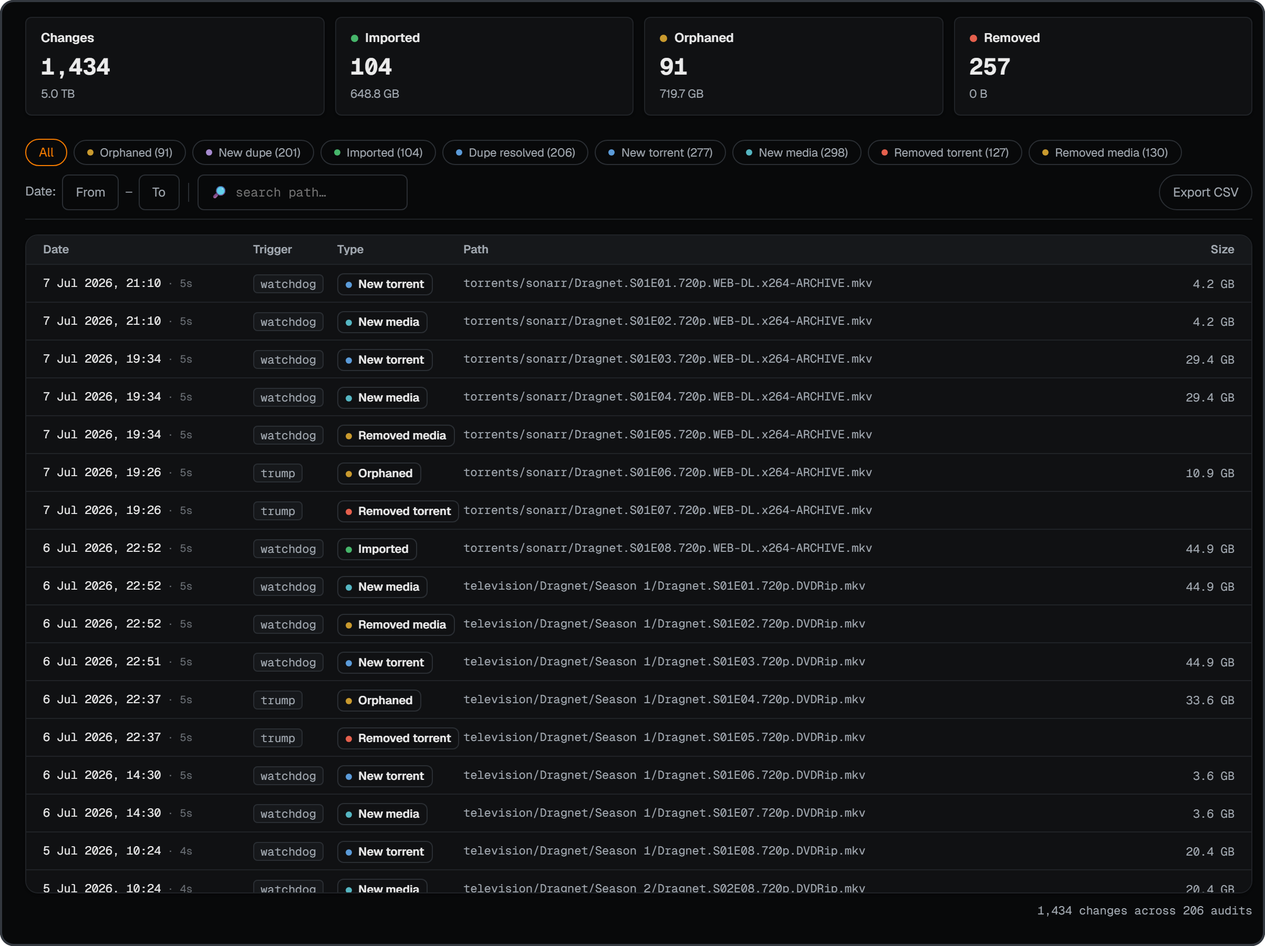
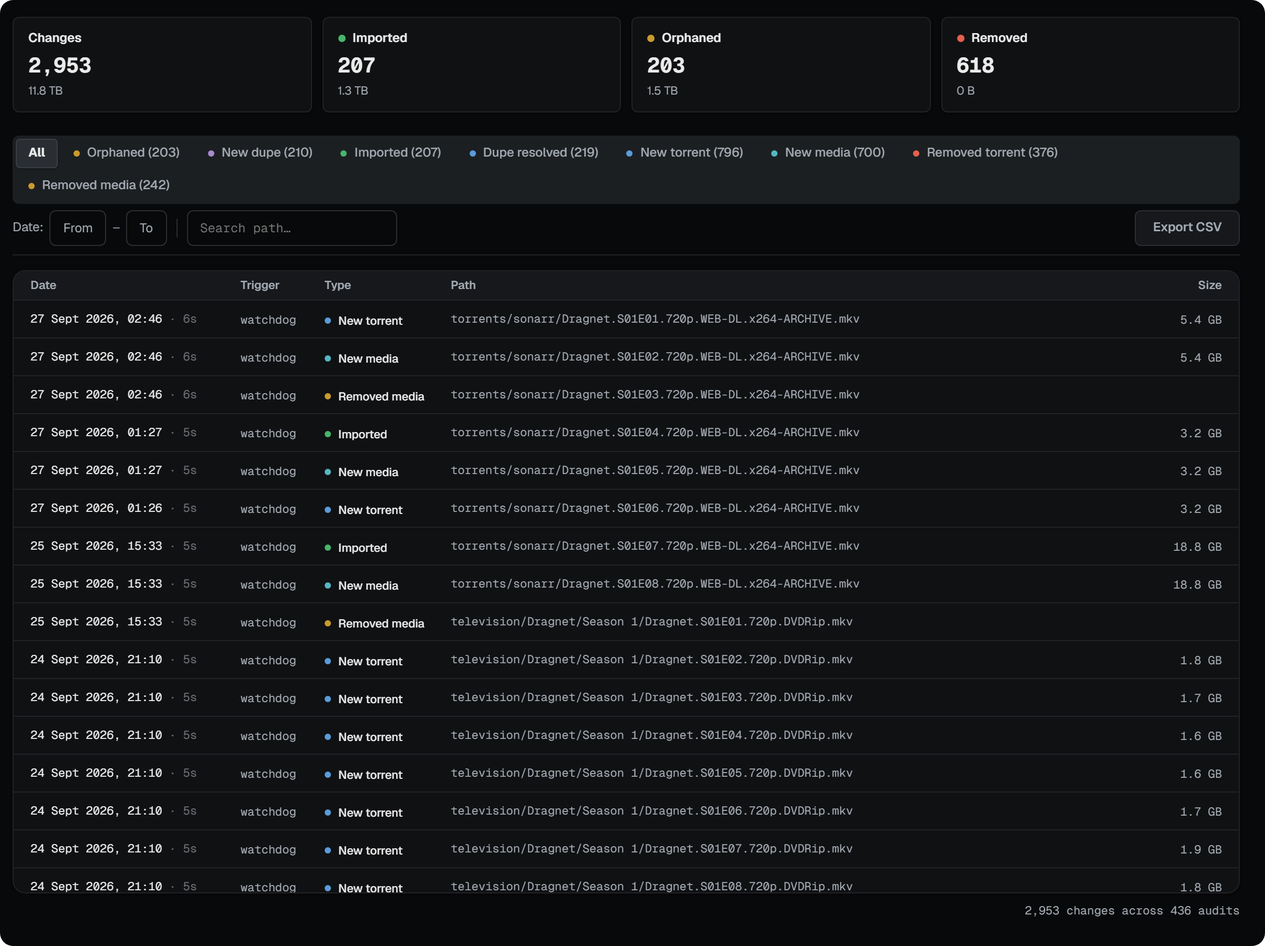
Final documentation polish for 1.8.0

diff --git a/app.py b/app.py
@@ -58,7 +58,7 @@ from debug import (
 logging.basicConfig(level=logging.INFO, format='%(asctime)s [%(levelname)s] %(message)s')
 log = logging.getLogger(__name__)
 
-APP_VERSION = "1.7.3"
+APP_VERSION = "1.8.0"
 
 # Keep the last ~400 log records in memory for /api/debug/report
 install_ring_buffer()

diff --git a/CHANGELOG.md b/CHANGELOG.md
@@ -1,6 +1,6 @@
 # Changelog
 
-## Unreleased
+## v1.8.0 — 2026-09-27
 
 **The largest release auditorr has had, and almost all of it is one idea.**
 Every workflow that can delete, hardlink or replace a file was reviewed end to
@@ -65,7 +65,7 @@ happens to your files rather than by which part of auditorr was at fault.
 
 #### Files hidden from auditorr's own view
 
-- **One click in Cleanup could hide your entire media library from auditorr** — Cleanup groups orphaned files by release folder, and a single-file torrent saved straight into a category directory (`movies/Film.2020.1080p.mkv` — what qBittorrent does by default for single-file torrents) has no release folder. Every such file in the category collapsed into one group called `movies`, with a header checkbox that selected all of them, and *Exclude* then wrote the rule `movies/`. A trailing slash means "this subtree", and the match runs against both of auditorr's walks — so that rule excluded the **media library** as well as the torrent folder. Everything under it stopped being scored, the health score jumped, Backfill emptied, and File Explorer hid it, while the toast read *Added 1 exclusion rule*. Groups that aren't a release folder are now labelled **loose files** and only ever produce one rule per file. (Recoverable if it happened to you: the rule is visible and editable in Config → Excluded Files & Folders.)
+- **One click in Cleanup could hide your entire media library from auditorr** — Cleanup groups orphaned files by release folder, and a single-file torrent saved straight into a category directory (`movies/Film.2020.1080p.mkv` — what qBittorrent does by default for single-file torrents) has no release folder. Every such file in the category collapsed into one group called `movies`, with a header checkbox that selected all of them, and *Exclude* then wrote the rule `movies/`. A trailing slash means "this subtree", and the match runs against both of auditorr's walks — so that rule excluded the **media library** as well as the torrent folder. Everything under it stopped being scored, the health score jumped, Backfill emptied, and File Explorer hid it, while the toast read *Added 1 exclusion rule*. A group that isn't a release folder now says so (**category folder**) and only ever produces one rule per file. (Recoverable if it happened to you: the rule is visible and editable in Config → Excluded Files & Folders.)
 
 - **Excluding a Cleanup folder could hide a torrent that was still seeding** — Cleanup offered to exclude a whole release folder whenever the folder was deep enough, and never checked what else lived in it. One stray file inside a live torrent's folder — a sample a repack left behind, an old `.nfo` — made a one-file group whose **Exclude** wrote a rule for the whole folder, taking the seeding torrent's files out of scoring, the hardlink figure and Backfill. auditorr now offers a folder rule only where every file under the folder is orphaned — including a live cross-seed's second hardlink, which sits on no file record at all — and the folder isn't a category directory shared with your media library. Where it isn't safe, the group says why and excluding writes one rule per file.
 - **A Sonarr/Radarr outage could be forgotten between two requests** — Triage's *Could Not Check* bucket exists so that "no arr answered" can never read as *Not in Library*, whose files are the only copy. The failure and the library it described were stored separately, and with several requests in flight a successful refresh landing between the two left one request holding an empty library and no failure — and *Not in Library* back. The two now travel together. Trumped reads them the same way.
@@ -90,7 +90,7 @@ happens to your files rather than by which part of auditorr was at fault.
 - **Dedupe reclaims cross-seeded copies instead of leaving them alone** — the script replaces every path of a file or none of them, and it counted a file's hardlinks before touching it precisely so it could refuse the ones it couldn't replace whole. But auditorr only recorded *one* path per file in each folder tree, so a copy cross-seeded into two tracker directories looked like a file with a hardlink auditorr had never seen, and every group where more than one copy was cross-seeded was left alone: correct, and nothing freed. Each scan now records every path a file has in your torrent and media folders, so those groups link and the space is actually reclaimed. A copy that really does have a link auditorr can't see — a snapshot, a backup tree, or a path hidden by an exclusion rule — is still left alone, exactly as before. **Found and fixed independently by [Joloxx9](https://github.com/Joloxx9) ([#24](https://github.com/thrill-burn/auditorr/pull/24)), against the previous release, where the same gap split the file and claimed the bytes anyway.**
 - **Text on the workflow pages now follows one type scale** — Backfill, Cleanup, Triage, Dedupe and Trumped (and the script and Import Jobs panels that open over them) sized their text with hardcoded numbers, most of which weren't on the scale the rest of the app uses; half of them sat exactly between two of its sizes. Every piece of text is now sized by what it *is*, so the same kind of text is the same size on every page: section headers agree with each other, the paragraph under a page title matches the prose beneath it, and readouts like sizes, counts and ages are one size rather than four. The most visible change is **status tags and badges — the quality, HDR, match, tracker and verdict chips — which were 9, 10, 11 and 12px and are now all 11px**, so the smallest text on the busiest pages is easier to read. A few release names in Trumped's lists now wrap onto one more line as a result; they have always wrapped rather than truncate, because the release name is the thing you're checking.
 - **Warnings, alerts and errors outside the workflows render as boxes again** — the same dropped-colour bug was on the rest of the app: the error banner across the top of every page, the dashboard's threshold alerts and their *View* buttons, Audit History's load error, Config's "every weight is zero" warning and the Sidebar's scan-error box were all drawn as loose coloured text with no box around them. Selected options and search fields that hold a value get their faint highlight back, in Config, the file browsers, Audit History, Trackers and the setup wizard, and the score chart finally draws its line under the point you're hovering. Row tags (*orphaned*, *seeding*), the *Open in Sonarr/Radarr* actions, the sidebar's counts and Config's run badges stay as coloured text rather than becoming filled pills: that is how they have always looked, and a pill on every row of a long list is a lot of colour. A test now fails the build if the broken colour spelling comes back anywhere in the frontend.
-- **The workflow pages share one set of buttons and one heading style** — every workflow had grown its own buttons: seven different paddings, five corner radii, two weights, and white text on orange in one place where everywhere else used dark. None of them responded to hover. They are now one button in three sizes — page-level actions, small controls, and the chips inside a row — with a hover state, and Rounds' *Open …* buttons are the same button. Headings follow Triage's: a section heading is bold, a sub-heading semi-bold, and an item's title medium, so Cleanup's and Dedupe's folder and file names no longer outweigh the heading above them and Backfill's section labels stand apart from their sub-labels. Also tidied: the results screen of a Backfill search centred its "Workflows" label while everything under it was left-aligned; Trumped's *Confirm & find cross-seeds* stretched into a full-width orange bar; and the empty-state 🎉 is now a simple check icon. Backfill's Release Ranking, Priority and Search Depth choices are now one kind of card at one width, so the three rows line up — Search Depth was a taller box around a large number, and the others were each as wide as their own words — and with no candidates the *All* choice no longer offers 999.
+- **The workflow pages share one set of buttons and one heading style** — every workflow had grown its own buttons: seven different paddings, five corner radii, two weights, and white text on orange in one place where everywhere else used dark. None of them responded to hover. They are now one button in three sizes — page-level actions, small controls, and the chips inside a row — with a hover state, and Rounds' *Open …* buttons are the same button. Headings follow Triage's: a section heading is bold, a sub-heading semi-bold, and an item's title medium, so Cleanup's and Dedupe's folder and file names no longer outweigh the heading above them and Backfill's section labels stand apart from their sub-labels. Also tidied: the results screen of a Backfill search centred its "Workflows" label while everything under it was left-aligned; Trumped's *Confirm & find cross-seeds* stretched into a full-width orange bar; and the empty-state 🎉 is now a simple check icon. With no candidates, Backfill's Search Depth *All* choice no longer offers 999.
 - **Every filter in auditorr is one control, and every button one of two heights** — with the colours drawing properly, a pill and a button looked equally clickable, and there were fifteen shapes doing five jobs: File Explorer alone had Status as pills, View and Sort as bordered pairs doing the same job four controls along, a third shape for Duplicates and Excluded, and controls at four heights in one toolbar. Every filter — File Explorer's Status, Import, View and Sort, Backfill's indexer, folder and quality rows, Audit History's categories, the Dashboard and Trackers date ranges and metric tabs, Config's toggles and presets, the setup wizard's source choice, the changes panel — is now the one inset track the date ranges already used, whether it takes one choice or several. So are Backfill's Release Ranking, Priority and Search Depth choices. They were taller cards with every name in bold and an orange edge on the chosen one, and now each option's short description sits beside its name. File Explorer's per-file info and copy-path buttons are proper icons: the copy button was a faint symbol you could barely see, especially on the light theme, and copying now confirms that it worked. Backfill's title filter, File Explorer's filename search and Audit History's path search are now the same search box. Config's Health Score boxes match the other fields and show when you're typing in one. The theme switch uses icons instead of emoji. The link between Cleanup and Triage is a sentence with a small button instead of a dashed orange box. File Explorer's size filter has one MB/GB/TB switch for the whole range instead of two browser dropdowns, and its boxes take decimals, so 500 MB to 2 GB is 0.5 to 2 GB. Audit History's Trigger and Type columns, and the changes panel's categories, are plain text and a coloured dot, so they no longer look like buttons you can't click. Rounds' secondary text (streak notes, rung readouts, prize names and the section notes) was drawn in a grey so faint that on the light theme it was barely visible. It now uses the same grey as the workflow pages, as does the folder line under each file in File Explorer's flat view. Rounds no longer says "Only when a tracker asks" twice, and Cleanup and Dedupe describe the most a script can free in the same words. Rounds' workflow cards are shorter. A card that wants something no longer repeats what the workflow does, since its page says that, or explains its streak twice: both are now hover text on the name and on the streak line. Each card's state reads as coloured text instead of an outlined badge, and Rounds' headings match the workflow pages'. The subtitles on Cleanup, Triage, Dedupe and Trumped are each one line, and Cleanup's piles explain themselves in one sentence each. On the dark theme a selected option now stands a shade lighter than its track, with a faint edge, as it always has on the light theme — it used to be a shade *darker*, the same colour as the panel behind it, so it looked like a gap in the row rather than a button that was pressed. Pointing at an option you haven't selected now shades it faintly, the way the buttons already respond, so each one shows it can be clicked. Actions such as *Copy Paths*, *Export CSV*, *Test Connection* and every ✕ that clears a search are the workflow pages' button, and pills are left only for things you can't click. Controls in a toolbar share one height — 28px in File Explorer, 34px everywhere else — so the small and standard buttons on the workflow pages grow by 3px and 1px to match. Every close button is one icon, the Config and setup-wizard fold-outs use the same chevron as Rounds, and the rest of the app joins the workflow pages on the type scale: the summary numbers at the top of File Explorer and Audit History drop from 22 to 20px, the smallest text rises from 10 to 11px, and the Trackers chart no longer clips its last date.
 - **Rounds sits above Workflows in the sidebar** — it is the summary of which workflow needs you and in what order, so it now comes before the five pages it points to rather than after them, where the expanded Workflows group pushed it five rows down.
 - **Config's disc-rip and media-server presets have an *All* option** — with every preset in a group switched on, the row was one even shade, and on the dark theme that looked the same as every preset switched off. *All* now lights up on its own when the whole group is on, the same way *All* reads on the filter rows elsewhere, so an evenly shaded row always means none. Click it again to switch the group off, or click one preset to keep only that one. What each preset excludes is unchanged.
@@ -128,7 +128,7 @@ happens to your files rather than by which part of auditorr was at fault.
 - **Exclusions show you the exact rule before they are written** — *Exclude* on Cleanup and Triage used to post immediately and report a count, so the one thing you could not see was the thing being saved. Both now open a confirmation listing the rules verbatim, with what they were built from and where they will live. Triage's one-click suggestion chips are unchanged: those already show their rule (`ext:sfv`, `contains:sample`) on the chip itself.
 
 ### Bug Fixes
-- **Warning boxes, danger buttons and coloured chips on the workflow pages were drawn without their borders** — auditorr tinted colours in a way browsers silently reject, so the rule was thrown away whole rather than drawn faintly. Every yellow warning and red error on Backfill, Cleanup, Triage, Dedupe and Trumped was loose coloured text with no box around it; the destructive buttons — *Generate Delete Script*, *Remove from qui*, *Remove group* — had no outline, so they looked less like buttons than the harmless one beside them; and the coloured chips on a row (*Grab*, *radarr ↗*, *Dedupe ↗*, *Trumped? ↗*, *Failed ↺*) and Backfill's *← New Search* read as coloured words. All of them now draw as designed, and a test keeps the broken spelling out of those pages. The same spelling still appears on a few other pages (the dashboard among them), where it is left for now.
+- **Warning boxes, danger buttons and coloured chips on the workflow pages were drawn without their borders** — auditorr tinted colours in a way browsers silently reject, so the rule was thrown away whole rather than drawn faintly. Every yellow warning and red error on Backfill, Cleanup, Triage, Dedupe and Trumped was loose coloured text with no box around it; the destructive buttons — *Generate Delete Script*, *Remove from qui*, *Remove group* — had no outline, so they looked less like buttons than the harmless one beside them; and the coloured chips on a row (*Grab*, *radarr ↗*, *Dedupe ↗*, *Trumped? ↗*, *Failed ↺*) and Backfill's *← New Search* read as coloured words. All of them now draw as designed, and a test keeps the broken spelling from coming back. (The rest of the app had the same bug; see *Warnings, alerts and errors outside the workflows render as boxes again* above.)
 - **Saving Config reset three Rounds tiles to zero until the next scan** — the health score is refreshed from your last scan when you save settings, and that refresh dropped the figures a scan measures but can't rebuild from the file lists: seeding time and your oldest media file. **Atlas**, **Old Faithful** and **Provenance** read 0 until the next scan. Nothing earned was lost — those medals remember their highest point — but the current values vanished. They're kept now.
 - **Backfill could report a Sonarr/Radarr instance as healthy when its own read of it had failed** — Backfill read the error list and the root folders separately from the library list, so another page refreshing the same data in between could leave Backfill showing a missing instance with no warning, and folder chips from a list it hadn't used. All three now come from one read, as Triage and Trumped's already do. Closes the last part of the 2026-09-10 outside review.
 - **Groups of more than eleven identical files were cut short** — each file remembers at most ten of its identical siblings, and the page took one file's list as the whole group. Fifteen copies of one file became five overlapping groups of eleven: the headline counted more than three times the space there was, and one file could be the copy kept in one group and a copy replaced in another. Groups are now joined from what every file remembers.

diff --git a/README.md b/README.md
@@ -3,6 +3,7 @@
 **An audit tool for hardlinked media libraries using qBittorrent / qui + Sonarr / Radarr.**
 A dashboard with health score, per-tracker analytics, and cross-seed effectiveness 
 tells you what's wrong with your library. Five automated workflows fix it.
+Built to stay light on memory, it runs on **500+ TB** libraries.
 
 <p align="center">
   <a href="docs/configuration.md">Configuration</a> ·
@@ -18,20 +19,14 @@ tells you what's wrong with your library. Five automated workflows fix it.
 
 ---
 
-## What's new in 1.7.3
+## What's new in 1.8.0
 
-- **Every Sonarr / Radarr instance is read now ([#22](https://github.com/thrill-burn/auditorr/issues/22))** - your primary pair and the *Additional instances* list are merged rather than either/or. Upgrading is the whole fix.
-- **File Explorer can say "not" ([#23](https://github.com/thrill-burn/auditorr/issues/23))** - *Duplicates* and *Excluded* get their own `+` / `-` [toggles](docs/configuration.md#excluded-files--folders), so **orphaned but not excluded** is one click.
-- **Workflow pages keep up** - act on a row and the sidebar, dashboard and other pages follow straight away, instead of waiting for the next audit.
-- **[Rounds](#rounds) keeps score for a tidy library too** - a dated record of every prize you've earned, eleven new ladders, and workflow prizes rebased onto work done rather than bytes held.
+- **Safer workflows** - all five were reviewed end to end. A torrent client or Sonarr / Radarr that doesn't answer can no longer make files look orphaned, unimported or safe to delete; auditorr says "could not check" instead of guessing. [Full list](CHANGELOG.md).
+- **Bad scans aren't saved** - if your client stops answering, a drive isn't mounted yet, or torrents vanish overnight, your last good results stay put and auditorr tells you what to fix.
+- **Deletes and hardlinks check again before acting** - Cleanup asks your client again before building a delete script, Triage and Trumped keep any file something still uses, and Trumped grabs the replacement before removing anything. Both scripts now have `--dry-run` and are safe to run twice.
+- **One consistent UI** - every button, filter and heading comes from one set, and warning boxes that had silently lost their borders are back.
 
-Upgrading from 1.7.0 or earlier? 1.7.1 [closed off-LAN API access by default](docs/remote-access.md) - LAN is unaffected.
-
-## What's new in 1.7.0
-
-- **Optimized for large libraries** - backend memory optimizations, tested on libraries up to **500 TB**.
-- **Four new workflows** - Backfill is now joined by Cleanup, Triage, Dedupe, and Trumped, so every dashboard problem has a fix.
-- **A rebuilt UI** - a top-to-bottom design pass with consistent buttons and spacing, and a calmer library-health dial.
+Upgrading needs no configuration changes. From 1.7.0 or earlier? 1.7.1 [closed off-LAN API access by default](docs/remote-access.md) - LAN is unaffected.
 
 ---
 
@@ -74,12 +69,10 @@ which one to open.
 
 ### Rounds
 
-Every workflow in one ranked list, in a fixed order you walk again and again:
-**Baseline** you clear once and then watch, **Ongoing** never has a last item,
-**On demand** waits for a tracker to ask. Under it sits a shelf of **useless
-prizes** — 650+ named tiers and 109 feats in the spirit of Progress Quest,
-awarded for work you were going to do anyway and never taken back — and a dated
-record of every one you've earned.
+Every workflow in one list, in a fixed order: **Baseline** to clear and then
+watch, **Ongoing** that never runs out, and **On demand** for when a tracker
+asks. Underneath sit 750+ **useless prizes** in the spirit of Progress Quest,
+awarded for work you were going to do anyway and never taken back.
 
 <p>
   <a href="docs/rounds.png"><img src="docs/rounds.png" alt="Rounds" width="100%" /></a>
@@ -130,9 +123,9 @@ replaces copies with hardlinks, verified with `cmp` before linking.
 
 Automates the private-tracker trump swap. Paste the tracker's "this release has
 been trumped" PM; auditorr parses the old and new release names, finds the
-entire hardlink group (every cross-seed of the old content), removes it from the
-client with its files, and grabs the exact replacement through Sonarr/Radarr —
-wizard-style, confirmed at every step.
+entire hardlink group (every cross-seed of the old content), grabs the exact
+replacement through Sonarr/Radarr, and only then removes the old group from the
+client with its files — wizard-style, confirmed at every step.
 
 <p>
   <a href="docs/workflow-trumped.png"><img src="docs/workflow-trumped.png" alt="Trumped workflow" width="100%" /></a>

diff --git a/ROADMAP.md b/ROADMAP.md
@@ -146,6 +146,29 @@ Reduce time-to-first-scan for new users and surface qBittorrent metadata that wa
 
 ---
 
+## v1.8 — Workflow Safety Review ✅
+
+### Philosophy
+Every workflow that deletes, hardlinks or replaces a file was reviewed end to end, and most findings shared one root cause: "could not ask" and "the answer is no" arrived as the same empty collection. Absence of evidence is now reported as absence of evidence, from the torrent-client layer up to every page with a button on it.
+
+### Shipped in v1.8.0
+- **Absence is reportable** — `sources.fetch_file_map` returns a source report; a failed per-torrent listing falls back to the payload on disk instead of claiming nothing; `fetch_torrent_file_paths` answers `None` (could not ask) apart from `[]`; qui paging is checked against the total it advertises; the arr layer returns rows and errors as one snapshot and reports a partial Sonarr read
+- **Implausible scans refuse to persist** — `source_plausibility` / `filesystem_plausibility` (client blackout, count collapse, missing or unlistable roots) against a 7-day reference window; a manual scan accepts a change, never a failed read; missing roots are retried at 1, 2 and 5 minutes after startup
+- **One scan, one transaction** — `db_publish` writes the whole audit atomically; `db_read_snapshot` pins a reader of several rows to one generation
+- **Registrations, not hashes** — a torrent on two qui instances is two `(instance_id, hash)` registrations throughout; a request that can't name the instance is refused
+- **Completion is its own question** — `torrent_complete` (progress, else `completion_on`, never both); unfinished payloads leave Dedupe and Triage; `.!qB` and incomplete-directory spellings are claimed
+- **Cleanup** — piles by what survives a delete (library copy / linked elsewhere / only copy / could not check), one row per inode, the client re-asked immediately before a delete script is built; the script has `--dry-run`, is idempotent and prunes emptied release folders
+- **Triage** — files deleted only where ownership is established, and kept wherever it can't be; the confirmed plan binds (`plan_changed`); *Could Not Check* replaces *Not in Library* while an arr is unreachable; arr alternate titles; content type gates the library match
+- **Dedupe** — no canonical; union-find groups; every path of a file listed and replaced together; per-device buckets, owner/permission and partial-replacement checks; every link staged and verified before any rename; compact `dedupe` row; the badge counts groups
+- **Trumped** — the group is the transitive closure over shared paths; a per-member library-link check; the group re-resolved at execute; grab before removal; one operation per confirmation; *Grab only*
+- **Backfill** — a season is searched as a pack only when it is fully unseeded; a release must cover exactly the file's episodes; forced imports always `Copy`; the arrs' own root folders; *Closest to my file* ranking; generate jobs survive leaving the page
+- **The import watch observes success** — `done` requires the arr's file id to change; nothing still downloading is force-imported
+- **Exclusions** — `literal:` rules built from paths; a folder rule only where exclusivity is established; the Exclude buttons enforce the config caps; filesystem tombstones (`.fuse_hidden*`, `.nfs*`) always excluded
+- **One UI kit** — one `Button`, `Segmented` for every filter row, the type scale and `tint()` each held by a guard test; render errors caught by `ErrorBoundary` and logged server-side
+- **Tested images** — the Docker build `needs` `pytest backend_tests`, so a red suite publishes nothing
+
+---
+
 ## Future Ideas
 - **Dead-since tracking** — persist when each torrent was first seen tracker-dead across audits, so Dead Seeds can show tracker-credited seed time (seeded minus dead duration) for hit-and-run decisions
 - **Webhook / notification support** — alert when health score drops below threshold (Discord, ntfy.sh, Gotify)

diff --git a/docs/troubleshooting.md b/docs/troubleshooting.md
@@ -87,7 +87,8 @@ at boot means the previous scan died.
 
 After **two consecutive** killed scans auditorr stops scanning automatically —
 both the startup audit and the watchdog — so it doesn't sit in a restart loop
-forever. It stays paused until a **manual scan completes successfully**.
+forever. It stays paused until a **manual scan completes successfully** — that's
+**▶ Run Audit**, at the foot of the Config page.
 
 **Fix:**
 
@@ -283,7 +284,12 @@ quadratic on disc-heavy libraries and exhausts memory:
 - Excluded files are skipped entirely.
 - Groups of more than 200 same-size files are skipped — this is what disc rips
   produce.
-- Each file records at most 10 sibling paths.
+- Each file records at most 10 sibling paths. A larger group is still shown
+  whole, because the page joins what every file remembers.
+
+Anything your torrent client hasn't confirmed as **finished** is skipped too, on
+purpose: two half-downloaded files can look identical, and hardlinking them ruins
+both. See [What detection skips](workflows.md#what-detection-skips).
 
 Also note the definition: duplicates are identical files that **don't share an
 inode**. Two paths that are already hardlinks to one file are not duplicates —
@@ -470,6 +476,23 @@ Must include the scheme: `https://sonarr.example.com`, not
 the field, since the only thing worth testing is whether *your* browser reaches
 it. Full detail in
 [External URLs](configuration.md#external-urls-reverse-proxy).
+
+---
+
+## A page says "This page stopped with an error"
+
+That's a bug in auditorr, not in your setup. The page couldn't be drawn, so it
+shows the error and where it happened instead of going blank. The sidebar still
+works, so you can move to another page.
+
+**Try again** redraws the page, and **Reload page** reloads the whole app. The
+page also tries again by itself after the next scan. If the sidebar or a dialog
+failed rather than a page, the message covers the whole window and reads
+*auditorr stopped with an error*.
+
+The error is also written to the server log, so it appears in `docker logs` and
+in the debug report. Please [report it](#reporting-a-problem) with the debug
+report attached.
 
 ---
 

diff --git a/docs/configuration.md b/docs/configuration.md
@@ -142,8 +142,8 @@ therefore produce a re-audit every few minutes, all day.
 **Recommendation:** on large libraries, raise the cooldown into the tens of
 minutes (1800 = 30 min is a reasonable starting point), or turn the watchdog off
 entirely. The scheduled audit already runs every 6 hours by default — four full
-audits a day is plenty for a health dashboard, and **Scan Now** is always there
-when you want fresh numbers immediately.
+audits a day is plenty for a health dashboard, and **▶ Run Audit** at the foot of
+the Config page is always there when you want fresh numbers immediately.
 
 If you keep it on, the cooldown is the dial that matters: it is the minimum
 quiet period before a scan fires, so a larger value both batches more changes
